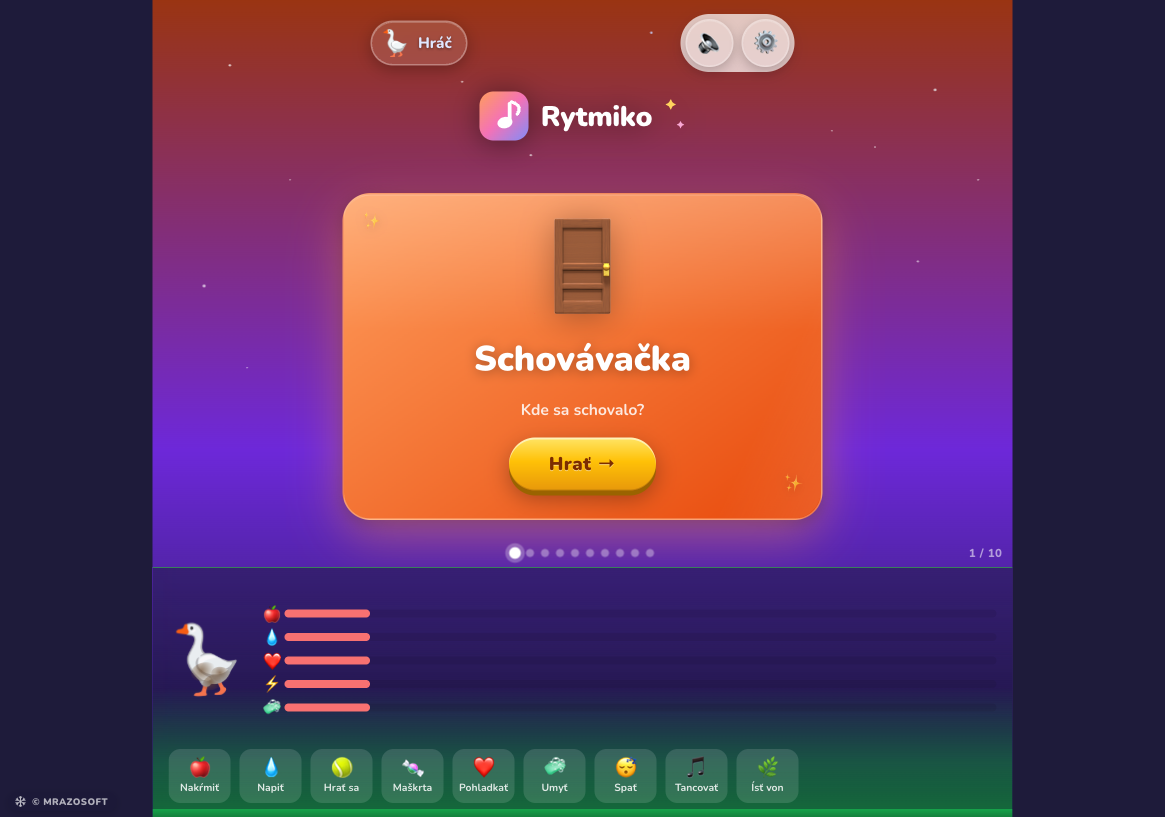
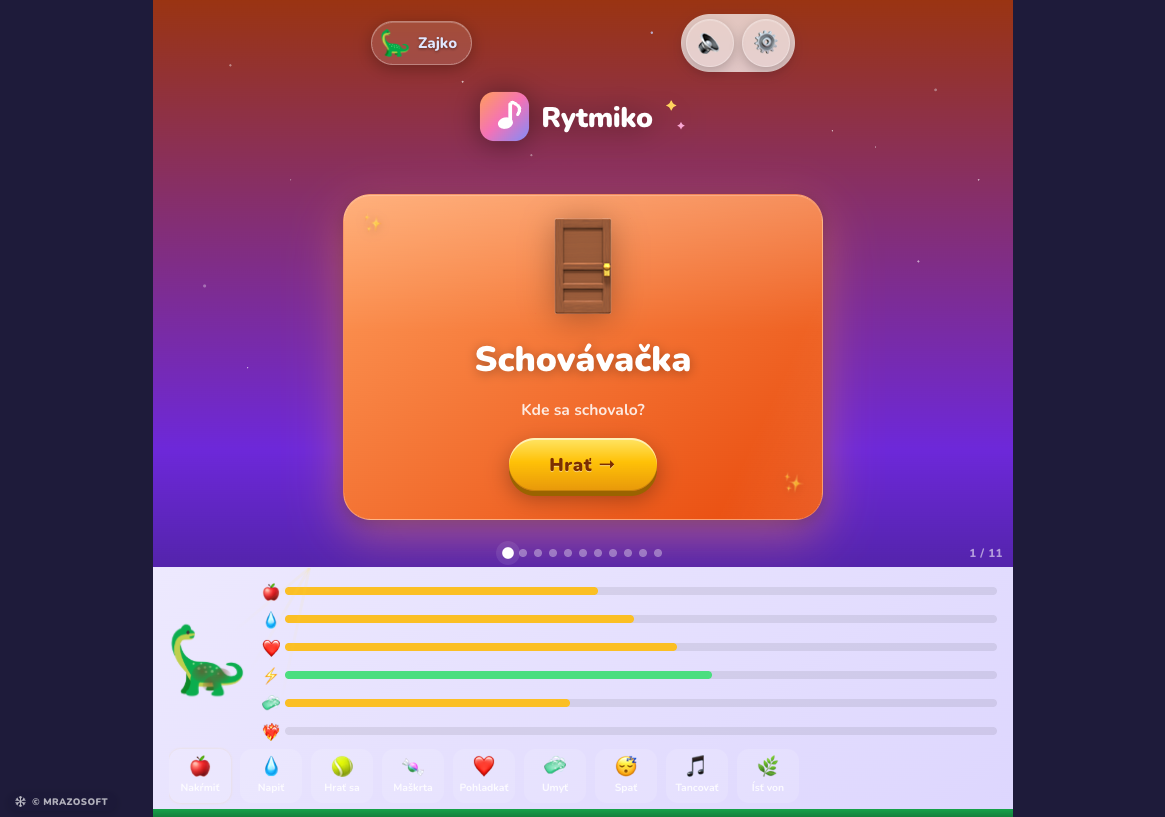
Projekty: pridané Pirohovo (live, pirohovo.eu) + čerstvé náhľady Rytmiko (herné menu, desktop+mobil); app v46, rytmiko ?v=14

diff --git a/projekty.html b/projekty.html
@@ -6,7 +6,7 @@
   <meta name="site-version" content="45" />
   <script>(function(){try{var m=document.querySelector('meta[name="site-version"]');var B=m&&m.content;if(!B)return;var u=new URL(location.href);fetch('/version.json?ts='+Date.now(),{cache:'no-store'}).then(function(r){return r.json();}).then(function(d){if(d&&d.version&&String(d.version)!==String(B)){if(u.searchParams.get('_r')===String(d.version))return;u.searchParams.set('_r',String(d.version));location.replace(u.toString());}}).catch(function(){});}catch(e){}})();</script>
   <title>Projekty z praxe — Rytmiko, Harmony Home, FleetView… | MRAZOSOFT</title>
-  <meta name="description" content="Reálne projekty MRAZOSOFT: Rytmiko PWA, Harmony Home web, FleetView, Heureka Patcher a Tajný Agent. Case-study: problém, riešenie, výsledok." />
+  <meta name="description" content="Reálne projekty MRAZOSOFT: Rytmiko PWA, Harmony Home web, Pirohovo, FleetView, Heureka Patcher a Tajný Agent. Case-study: problém, riešenie, výsledok." />
   <meta name="theme-color" content="#0A0E16" />
   <link rel="icon" type="image/svg+xml" href="assets/favicon.svg" />
   <link rel="manifest" href="manifest.json" />
@@ -115,9 +115,9 @@
             <a class="device-combo tilt" href="https://rytmiko.mrazosoft.sk" target="_blank" rel="noopener" aria-label="Otvoriť Rytmiko naživo">
               <div class="dc-monitor">
                 <div class="browser-bar"><span></span><span></span><span></span><div class="url">rytmiko.mrazosoft.sk</div></div>
-                <img src="assets/projects/rytmiko-desktop.png?v=13" alt="Rytmiko na počítači" loading="lazy" />
+                <img src="assets/projects/rytmiko-desktop.png?v=14" alt="Rytmiko na počítači" loading="lazy" />
               </div>
-              <div class="dc-phone"><img src="assets/projects/rytmiko.png?v=13" alt="Rytmiko na telefóne" loading="lazy" /></div>
+              <div class="dc-phone"><img src="assets/projects/rytmiko.png?v=14" alt="Rytmiko na telefóne" loading="lazy" /></div>
             </a>
           </div>
           <div class="feature-info">
@@ -321,6 +321,33 @@
           </div>
         </div>
 
+        <!-- Pirohovo -->
+        <div class="feature reveal">
+          <div class="feature-visual">
+            <div class="glow-blob"></div>
+            <a class="device-combo tilt" href="https://pirohovo.eu" target="_blank" rel="noopener" aria-label="Otvoriť Pirohovo naživo">
+              <div class="dc-monitor">
+                <div class="browser-bar"><span></span><span></span><span></span><div class="url">pirohovo.eu</div></div>
+                <img src="assets/projects/pirohovo-desktop.png?v=1" alt="Pirohovo na počítači" loading="lazy" />
+              </div>
+              <div class="dc-phone"><img src="assets/projects/pirohovo.png?v=1" alt="Pirohovo na telefóne" loading="lazy" /></div>
+            </a>
+          </div>
+          <div class="feature-info">
+            <div class="feature-top">
+              <h3>Pirohovo</h3>
+              <span class="status status-live"><span class="dot"></span><span data-i18n="status.live">Live</span></span>
+            </div>
+            <div class="case">
+              <p><span class="case-label" data-i18n="case.problem">Problém:</span> <span data-i18n="proj.pirohovo.p">Nová reštaurácia s domácimi pirohmi potrebovala web, ktorý hosťa rýchlo dovedie k objednávke cez donáškové služby a ukáže, kde stánok nájde.</span></p>
+              <p><span class="case-label" data-i18n="case.solution">Riešenie:</span> <span data-i18n="proj.pirohovo.s">Postavil som tmavý, filmový web s plným menu, otváracími hodinami naživo a objednávaním cez Wolt, Bolt aj WhatsApp.</span></p>
+              <p><span class="case-label" data-i18n="case.result">Výsledok:</span> <span data-i18n="proj.pirohovo.r">Hosť vidí ponuku, otváracie hodiny aj rozvoz na jednom mieste a objedná na pár klikov — web je naživo na pirohovo.eu.</span></p>
+            </div>
+            <div class="tags"><span>HTML/CSS/JS</span><span>Dizajn</span><span>SEO</span><span>GitHub Pages</span></div>
+            <a class="project-link" href="https://pirohovo.eu" target="_blank" rel="noopener"><span data-i18n="proj.view">Otvoriť naživo</span> <span class="arr">↗</span></a>
+          </div>
+        </div>
+
       </div>
     </section>
 
@@ -351,7 +378,7 @@
     <svg viewBox="0 0 32 32" aria-hidden="true"><path d="M19.11 17.205c-.372 0-1.088 1.39-1.518 1.39a.63.63 0 0 1-.315-.1c-.802-.402-1.504-.817-2.163-1.447-.545-.516-1.146-1.29-1.46-1.963a.426.426 0 0 1-.073-.215c0-.33.99-.945.99-1.49 0-.143-.73-2.09-.832-2.335-.143-.372-.214-.487-.6-.487-.187 0-.36-.043-.53-.043-.302 0-.53.115-.746.315-.688.645-1.032 1.318-1.06 2.264v.114c-.015.99.472 1.977 1.017 2.78 1.23 1.82 2.506 3.41 4.554 4.34.616.287 2.035.888 2.722.888.817 0 2.15-.515 2.478-1.318.13-.33.244-.73.244-1.088 0-.058 0-.144-.03-.215-.1-.172-2.434-1.39-2.678-1.39zm-2.908 7.593c-1.747 0-3.48-.53-4.942-1.49L7.793 24.41l1.132-3.337a8.955 8.955 0 0 1-1.72-5.272c0-4.955 4.04-8.995 8.997-8.995S25.2 10.845 25.2 15.8c0 4.958-4.04 8.998-8.998 8.998zm0-19.798c-5.96 0-10.8 4.842-10.8 10.8 0 1.964.53 3.898 1.546 5.574L5 27.176l4.96-1.302a10.799 10.799 0 0 0 16.243-9.275c0-5.96-4.842-10.8-10.802-10.8z"/></svg>
   </a>
 
-  <script src="app.js?v=45"></script>
+  <script src="app.js?v=46"></script>
   <script src="cookies.js?v=7"></script>
   <script src="tajne.js?v=13"></script>
 </body>

diff --git a/index.html b/index.html
@@ -266,7 +266,7 @@
         </header>
         <div class="grid grid-3">
           <a class="card proj-card tilt reveal" href="https://rytmiko.mrazosoft.sk" target="_blank" rel="noopener" aria-label="Rytmiko — otvoriť naživo">
-            <span class="proj-thumb"><img src="assets/projects/rytmiko-desktop.png?v=13" alt="Náhľad aplikácie Rytmiko" loading="lazy" width="1280" height="800" /></span>
+            <span class="proj-thumb"><img src="assets/projects/rytmiko-desktop.png?v=14" alt="Náhľad aplikácie Rytmiko" loading="lazy" width="1280" height="800" /></span>
             <span class="proj-body">
               <span class="feature-top"><h3>Rytmiko</h3><span class="status status-dev"><span class="dot"></span><span data-i18n="status.dev">Vo vývoji</span></span></span>
               <span class="proj-desc" data-i18n="proj.rytmiko.home">Deti s Downovým syndrómom potrebovali hravé a dostupné cvičenia — vznikla PWA so 7 aktivitami, slovenskými hlasmi a offline režimom.</span>
@@ -361,7 +361,7 @@
     <svg viewBox="0 0 32 32" aria-hidden="true"><path d="M19.11 17.205c-.372 0-1.088 1.39-1.518 1.39a.63.63 0 0 1-.315-.1c-.802-.402-1.504-.817-2.163-1.447-.545-.516-1.146-1.29-1.46-1.963a.426.426 0 0 1-.073-.215c0-.33.99-.945.99-1.49 0-.143-.73-2.09-.832-2.335-.143-.372-.214-.487-.6-.487-.187 0-.36-.043-.53-.043-.302 0-.53.115-.746.315-.688.645-1.032 1.318-1.06 2.264v.114c-.015.99.472 1.977 1.017 2.78 1.23 1.82 2.506 3.41 4.554 4.34.616.287 2.035.888 2.722.888.817 0 2.15-.515 2.478-1.318.13-.33.244-.73.244-1.088 0-.058 0-.144-.03-.215-.1-.172-2.434-1.39-2.678-1.39zm-2.908 7.593c-1.747 0-3.48-.53-4.942-1.49L7.793 24.41l1.132-3.337a8.955 8.955 0 0 1-1.72-5.272c0-4.955 4.04-8.995 8.997-8.995S25.2 10.845 25.2 15.8c0 4.958-4.04 8.998-8.998 8.998zm0-19.798c-5.96 0-10.8 4.842-10.8 10.8 0 1.964.53 3.898 1.546 5.574L5 27.176l4.96-1.302a10.799 10.799 0 0 0 16.243-9.275c0-5.96-4.842-10.8-10.802-10.8z"/></svg>
   </a>
 
-  <script src="app.js?v=45"></script>
+  <script src="app.js?v=46"></script>
   <script src="cookies.js?v=7"></script>
   <script src="tajne.js?v=13"></script>
 </body>

diff --git a/app.js b/app.js
@@ -68,6 +68,7 @@
       "case.problem": "Problém:", "case.solution": "Riešenie:", "case.result": "Výsledok:",
       "proj.rytmiko.p": "Deti s Downovým syndrómom potrebujú jednoduché, hravé a dostupné cvičenia na vzory, počítanie a zvuky.", "proj.rytmiko.s": "Vznikla PWA edukačná hra so siedmimi aktivitami, slovenskými neurónovými hlasmi, maskotom Zajkom a offline režimom.", "proj.rytmiko.r": "Aplikácia sa dá spustiť v prehliadači aj nainštalovať do telefónu. Projekt je pripravený na ďalšie testovanie a spätnú väzbu.",
       "proj.harmony.p": "Upratovacia služba potrebovala jednoduchý web, ktorý jasne vysvetlí ponuku a rýchlo privedie zákazníka ku kontaktu.", "proj.harmony.s": "Navrhol som web s jasnou štruktúrou, lokálnym SEO, copywritingom a napojením objednávok na WhatsApp.", "proj.harmony.r": "Návštevník vie rýchlo pochopiť služby, lokalitu aj spôsob objednania cez WhatsApp.",
+      "proj.pirohovo.p": "Nová reštaurácia s domácimi pirohmi potrebovala web, ktorý hosťa rýchlo dovedie k objednávke cez donáškové služby a ukáže, kde stánok nájde.", "proj.pirohovo.s": "Postavil som tmavý, filmový web s plným menu, otváracími hodinami naživo a objednávaním cez Wolt, Bolt aj WhatsApp.", "proj.pirohovo.r": "Hosť vidí ponuku, otváracie hodiny aj rozvoz na jednom mieste a objedná na pár klikov — web je naživo na pirohovo.eu.",
       "proj.fleet.p": "Termíny STK, emisnej kontroly, diaľničnej známky a servisu sa ľahko stratia v poznámkach alebo kalendári.", "proj.fleet.s": "PWA a Android aplikácia sleduje vozidlá a zobrazuje stav termínov pomocou jednoduchého farebného semaforu.", "proj.fleet.r": "Používateľ vidí rizikové termíny skôr, než vznikne problém — STK, emisie, diaľničná aj servis pod kontrolou.",
       "proj.heureka.p": "Nespárované produkty z XML feedu bolo potrebné ručne opravovať a pripravovať pre PrestaShop Store Manager.", "proj.heureka.s": "Vytvoril som Python nástroj, ktorý načíta XML feed, spáruje produkty a vyexportuje pripravený CSV súbor.", "proj.heureka.r": "1 842 spracovaných položiek, 1 790 spárovaných, 52 nespárovaných. Práca, ktorá trvala hodiny, je hotová za sekundy.",
       "proj.tajny.p": "Hoaxy, mýty a polopravdy sa šíria rýchlejšie, než sa dajú overiť — a ručná kontrola faktov zaberie čas.", "proj.tajny.s": "macOS aplikácia, do ktorej vložíte tvrdenie. Overí ho cez web a umelú inteligenciu a vygeneruje PDF verdikt so skóre dôveryhodnosti, zdrojmi a zaradením do jednej zo 7 kategórií (pravda, mýtus, hoax, lož…).", "proj.tajny.r": "Z tvrdenia je do minúty prehľadný verdikt s vysvetlením, zdrojmi a PDF výstupom. Projekt slúži ako interný AI nástroj na overovanie tvrdení.",
@@ -161,6 +162,7 @@
       "case.problem": "Problem:", "case.solution": "Solution:", "case.result": "Result:",
       "proj.rytmiko.p": "Children with Down syndrome need simple, playful and accessible exercises for patterns, counting and sounds.", "proj.rytmiko.s": "A PWA educational game with seven activities, Slovak neural voices, the mascot Zajko and an offline mode.", "proj.rytmiko.r": "The app runs in the browser and installs to the phone. The project is ready for further testing and feedback.",
       "proj.harmony.p": "The cleaning service needed a simple website that clearly explains the offer and quickly leads the customer to get in touch.", "proj.harmony.s": "I designed a website with a clear structure, local SEO, copywriting and WhatsApp order integration.", "proj.harmony.r": "Visitors quickly understand the services, the location and how to order via WhatsApp.",
+      "proj.pirohovo.p": "A new restaurant serving homemade pierogi needed a website that quickly leads guests to order via delivery apps and shows where to find the stand.", "proj.pirohovo.s": "I built a dark, cinematic website with a full menu, live opening hours and ordering through Wolt, Bolt and WhatsApp.", "proj.pirohovo.r": "Guests see the menu, opening hours and delivery in one place and order in a few clicks — the site is live at pirohovo.eu.",
       "proj.fleet.p": "Deadlines for inspections, emissions, the vignette and service are easily lost in notes or a calendar.", "proj.fleet.s": "A PWA and Android app tracks the vehicles and shows the deadline status with a simple colour traffic-light.", "proj.fleet.r": "The user sees risky deadlines before a problem arises — inspections, emissions, vignette and service under control.",
       "proj.heureka.p": "Unmatched products from the XML feed had to be fixed by hand and prepared for PrestaShop Store Manager.", "proj.heureka.s": "I built a Python tool that loads the XML feed, matches products and exports a ready CSV file.", "proj.heureka.r": "1,842 items processed, 1,790 matched, 52 unmatched. Work that took hours is done in seconds.",
       "proj.tajny.p": "Hoaxes, myths and half-truths spread faster than they can be checked — and verifying facts by hand takes time.", "proj.tajny.s": "A macOS app where you paste a claim. It verifies it against the web and AI and generates a PDF verdict with a credibility score, sources and one of 7 categories (true, myth, hoax, lie…).", "proj.tajny.r": "A claim becomes a clear verdict — with reasoning, sources and a PDF output — within a minute. The project serves as an internal AI tool for fact-checking claims.",

diff --git a/blog-co-je-pwa-aplikacia.html b/blog-co-je-pwa-aplikacia.html
@@ -167,7 +167,7 @@
     <svg viewBox="0 0 32 32" aria-hidden="true"><path d="M19.11 17.205c-.372 0-1.088 1.39-1.518 1.39a.63.63 0 0 1-.315-.1c-.802-.402-1.504-.817-2.163-1.447-.545-.516-1.146-1.29-1.46-1.963a.426.426 0 0 1-.073-.215c0-.33.99-.945.99-1.49 0-.143-.73-2.09-.832-2.335-.143-.372-.214-.487-.6-.487-.187 0-.36-.043-.53-.043-.302 0-.53.115-.746.315-.688.645-1.032 1.318-1.06 2.264v.114c-.015.99.472 1.977 1.017 2.78 1.23 1.82 2.506 3.41 4.554 4.34.616.287 2.035.888 2.722.888.817 0 2.15-.515 2.478-1.318.13-.33.244-.73.244-1.088 0-.058 0-.144-.03-.215-.1-.172-2.434-1.39-2.678-1.39zm-2.908 7.593c-1.747 0-3.48-.53-4.942-1.49L7.793 24.41l1.132-3.337a8.955 8.955 0 0 1-1.72-5.272c0-4.955 4.04-8.995 8.997-8.995S25.2 10.845 25.2 15.8c0 4.958-4.04 8.998-8.998 8.998zm0-19.798c-5.96 0-10.8 4.842-10.8 10.8 0 1.964.53 3.898 1.546 5.574L5 27.176l4.96-1.302a10.799 10.799 0 0 0 16.243-9.275c0-5.96-4.842-10.8-10.802-10.8z"/></svg>
   </a>
 
-  <script src="app.js?v=45"></script>
+  <script src="app.js?v=46"></script>
   <script src="cookies.js?v=7"></script>
 </body>
 </html>

diff --git a/blog-kolko-stoji-web-stranka.html b/blog-kolko-stoji-web-stranka.html
@@ -173,7 +173,7 @@
     <svg viewBox="0 0 32 32" aria-hidden="true"><path d="M19.11 17.205c-.372 0-1.088 1.39-1.518 1.39a.63.63 0 0 1-.315-.1c-.802-.402-1.504-.817-2.163-1.447-.545-.516-1.146-1.29-1.46-1.963a.426.426 0 0 1-.073-.215c0-.33.99-.945.99-1.49 0-.143-.73-2.09-.832-2.335-.143-.372-.214-.487-.6-.487-.187 0-.36-.043-.53-.043-.302 0-.53.115-.746.315-.688.645-1.032 1.318-1.06 2.264v.114c-.015.99.472 1.977 1.017 2.78 1.23 1.82 2.506 3.41 4.554 4.34.616.287 2.035.888 2.722.888.817 0 2.15-.515 2.478-1.318.13-.33.244-.73.244-1.088 0-.058 0-.144-.03-.215-.1-.172-2.434-1.39-2.678-1.39zm-2.908 7.593c-1.747 0-3.48-.53-4.942-1.49L7.793 24.41l1.132-3.337a8.955 8.955 0 0 1-1.72-5.272c0-4.955 4.04-8.995 8.997-8.995S25.2 10.845 25.2 15.8c0 4.958-4.04 8.998-8.998 8.998zm0-19.798c-5.96 0-10.8 4.842-10.8 10.8 0 1.964.53 3.898 1.546 5.574L5 27.176l4.96-1.302a10.799 10.799 0 0 0 16.243-9.275c0-5.96-4.842-10.8-10.802-10.8z"/></svg>
   </a>
 
-  <script src="app.js?v=45"></script>
+  <script src="app.js?v=46"></script>
   <script src="cookies.js?v=7"></script>
 </body>
 </html>

diff --git a/blog-web-alebo-eshop.html b/blog-web-alebo-eshop.html
@@ -173,7 +173,7 @@
     <svg viewBox="0 0 32 32" aria-hidden="true"><path d="M19.11 17.205c-.372 0-1.088 1.39-1.518 1.39a.63.63 0 0 1-.315-.1c-.802-.402-1.504-.817-2.163-1.447-.545-.516-1.146-1.29-1.46-1.963a.426.426 0 0 1-.073-.215c0-.33.99-.945.99-1.49 0-.143-.73-2.09-.832-2.335-.143-.372-.214-.487-.6-.487-.187 0-.36-.043-.53-.043-.302 0-.53.115-.746.315-.688.645-1.032 1.318-1.06 2.264v.114c-.015.99.472 1.977 1.017 2.78 1.23 1.82 2.506 3.41 4.554 4.34.616.287 2.035.888 2.722.888.817 0 2.15-.515 2.478-1.318.13-.33.244-.73.244-1.088 0-.058 0-.144-.03-.215-.1-.172-2.434-1.39-2.678-1.39zm-2.908 7.593c-1.747 0-3.48-.53-4.942-1.49L7.793 24.41l1.132-3.337a8.955 8.955 0 0 1-1.72-5.272c0-4.955 4.04-8.995 8.997-8.995S25.2 10.845 25.2 15.8c0 4.958-4.04 8.998-8.998 8.998zm0-19.798c-5.96 0-10.8 4.842-10.8 10.8 0 1.964.53 3.898 1.546 5.574L5 27.176l4.96-1.302a10.799 10.799 0 0 0 16.243-9.275c0-5.96-4.842-10.8-10.802-10.8z"/></svg>
   </a>
 
-  <script src="app.js?v=45"></script>
+  <script src="app.js?v=46"></script>
   <script src="cookies.js?v=7"></script>
 </body>
 </html>

diff --git a/blog.html b/blog.html
@@ -155,7 +155,7 @@
     <svg viewBox="0 0 32 32" aria-hidden="true"><path d="M19.11 17.205c-.372 0-1.088 1.39-1.518 1.39a.63.63 0 0 1-.315-.1c-.802-.402-1.504-.817-2.163-1.447-.545-.516-1.146-1.29-1.46-1.963a.426.426 0 0 1-.073-.215c0-.33.99-.945.99-1.49 0-.143-.73-2.09-.832-2.335-.143-.372-.214-.487-.6-.487-.187 0-.36-.043-.53-.043-.302 0-.53.115-.746.315-.688.645-1.032 1.318-1.06 2.264v.114c-.015.99.472 1.977 1.017 2.78 1.23 1.82 2.506 3.41 4.554 4.34.616.287 2.035.888 2.722.888.817 0 2.15-.515 2.478-1.318.13-.33.244-.73.244-1.088 0-.058 0-.144-.03-.215-.1-.172-2.434-1.39-2.678-1.39zm-2.908 7.593c-1.747 0-3.48-.53-4.942-1.49L7.793 24.41l1.132-3.337a8.955 8.955 0 0 1-1.72-5.272c0-4.955 4.04-8.995 8.997-8.995S25.2 10.845 25.2 15.8c0 4.958-4.04 8.998-8.998 8.998zm0-19.798c-5.96 0-10.8 4.842-10.8 10.8 0 1.964.53 3.898 1.546 5.574L5 27.176l4.96-1.302a10.799 10.799 0 0 0 16.243-9.275c0-5.96-4.842-10.8-10.802-10.8z"/></svg>
   </a>
 
-  <script src="app.js?v=45"></script>
+  <script src="app.js?v=46"></script>
   <script src="cookies.js?v=7"></script>
 </body>
 </html>

diff --git a/kontakt.html b/kontakt.html
@@ -171,7 +171,7 @@
     <svg viewBox="0 0 32 32" aria-hidden="true"><path d="M19.11 17.205c-.372 0-1.088 1.39-1.518 1.39a.63.63 0 0 1-.315-.1c-.802-.402-1.504-.817-2.163-1.447-.545-.516-1.146-1.29-1.46-1.963a.426.426 0 0 1-.073-.215c0-.33.99-.945.99-1.49 0-.143-.73-2.09-.832-2.335-.143-.372-.214-.487-.6-.487-.187 0-.36-.043-.53-.043-.302 0-.53.115-.746.315-.688.645-1.032 1.318-1.06 2.264v.114c-.015.99.472 1.977 1.017 2.78 1.23 1.82 2.506 3.41 4.554 4.34.616.287 2.035.888 2.722.888.817 0 2.15-.515 2.478-1.318.13-.33.244-.73.244-1.088 0-.058 0-.144-.03-.215-.1-.172-2.434-1.39-2.678-1.39zm-2.908 7.593c-1.747 0-3.48-.53-4.942-1.49L7.793 24.41l1.132-3.337a8.955 8.955 0 0 1-1.72-5.272c0-4.955 4.04-8.995 8.997-8.995S25.2 10.845 25.2 15.8c0 4.958-4.04 8.998-8.998 8.998zm0-19.798c-5.96 0-10.8 4.842-10.8 10.8 0 1.964.53 3.898 1.546 5.574L5 27.176l4.96-1.302a10.799 10.799 0 0 0 16.243-9.275c0-5.96-4.842-10.8-10.802-10.8z"/></svg>
   </a>
 
-  <script src="app.js?v=45"></script>
+  <script src="app.js?v=46"></script>
   <script src="cookies.js?v=7"></script>
   <script src="tajne.js?v=13"></script>
 </body>

diff --git a/o-mne.html b/o-mne.html
@@ -197,7 +197,7 @@
     <svg viewBox="0 0 32 32" aria-hidden="true"><path d="M19.11 17.205c-.372 0-1.088 1.39-1.518 1.39a.63.63 0 0 1-.315-.1c-.802-.402-1.504-.817-2.163-1.447-.545-.516-1.146-1.29-1.46-1.963a.426.426 0 0 1-.073-.215c0-.33.99-.945.99-1.49 0-.143-.73-2.09-.832-2.335-.143-.372-.214-.487-.6-.487-.187 0-.36-.043-.53-.043-.302 0-.53.115-.746.315-.688.645-1.032 1.318-1.06 2.264v.114c-.015.99.472 1.977 1.017 2.78 1.23 1.82 2.506 3.41 4.554 4.34.616.287 2.035.888 2.722.888.817 0 2.15-.515 2.478-1.318.13-.33.244-.73.244-1.088 0-.058 0-.144-.03-.215-.1-.172-2.434-1.39-2.678-1.39zm-2.908 7.593c-1.747 0-3.48-.53-4.942-1.49L7.793 24.41l1.132-3.337a8.955 8.955 0 0 1-1.72-5.272c0-4.955 4.04-8.995 8.997-8.995S25.2 10.845 25.2 15.8c0 4.958-4.04 8.998-8.998 8.998zm0-19.798c-5.96 0-10.8 4.842-10.8 10.8 0 1.964.53 3.898 1.546 5.574L5 27.176l4.96-1.302a10.799 10.799 0 0 0 16.243-9.275c0-5.96-4.842-10.8-10.802-10.8z"/></svg>
   </a>
 
-  <script src="app.js?v=45"></script>
+  <script src="app.js?v=46"></script>
   <script src="cookies.js?v=7"></script>
   <script src="tajne.js?v=13"></script>
 </body>

diff --git a/sluzby.html b/sluzby.html
@@ -239,7 +239,7 @@
     <svg viewBox="0 0 32 32" aria-hidden="true"><path d="M19.11 17.205c-.372 0-1.088 1.39-1.518 1.39a.63.63 0 0 1-.315-.1c-.802-.402-1.504-.817-2.163-1.447-.545-.516-1.146-1.29-1.46-1.963a.426.426 0 0 1-.073-.215c0-.33.99-.945.99-1.49 0-.143-.73-2.09-.832-2.335-.143-.372-.214-.487-.6-.487-.187 0-.36-.043-.53-.043-.302 0-.53.115-.746.315-.688.645-1.032 1.318-1.06 2.264v.114c-.015.99.472 1.977 1.017 2.78 1.23 1.82 2.506 3.41 4.554 4.34.616.287 2.035.888 2.722.888.817 0 2.15-.515 2.478-1.318.13-.33.244-.73.244-1.088 0-.058 0-.144-.03-.215-.1-.172-2.434-1.39-2.678-1.39zm-2.908 7.593c-1.747 0-3.48-.53-4.942-1.49L7.793 24.41l1.132-3.337a8.955 8.955 0 0 1-1.72-5.272c0-4.955 4.04-8.995 8.997-8.995S25.2 10.845 25.2 15.8c0 4.958-4.04 8.998-8.998 8.998zm0-19.798c-5.96 0-10.8 4.842-10.8 10.8 0 1.964.53 3.898 1.546 5.574L5 27.176l4.96-1.302a10.799 10.799 0 0 0 16.243-9.275c0-5.96-4.842-10.8-10.802-10.8z"/></svg>
   </a>
 
-  <script src="app.js?v=45"></script>
+  <script src="app.js?v=46"></script>
   <script src="cookies.js?v=7"></script>
   <script src="tajne.js?v=13"></script>
 </body>

diff --git a/zasady.html b/zasady.html
@@ -171,7 +171,7 @@
     <svg viewBox="0 0 32 32" aria-hidden="true"><path d="M19.11 17.205c-.372 0-1.088 1.39-1.518 1.39a.63.63 0 0 1-.315-.1c-.802-.402-1.504-.817-2.163-1.447-.545-.516-1.146-1.29-1.46-1.963a.426.426 0 0 1-.073-.215c0-.33.99-.945.99-1.49 0-.143-.73-2.09-.832-2.335-.143-.372-.214-.487-.6-.487-.187 0-.36-.043-.53-.043-.302 0-.53.115-.746.315-.688.645-1.032 1.318-1.06 2.264v.114c-.015.99.472 1.977 1.017 2.78 1.23 1.82 2.506 3.41 4.554 4.34.616.287 2.035.888 2.722.888.817 0 2.15-.515 2.478-1.318.13-.33.244-.73.244-1.088 0-.058 0-.144-.03-.215-.1-.172-2.434-1.39-2.678-1.39zm-2.908 7.593c-1.747 0-3.48-.53-4.942-1.49L7.793 24.41l1.132-3.337a8.955 8.955 0 0 1-1.72-5.272c0-4.955 4.04-8.995 8.997-8.995S25.2 10.845 25.2 15.8c0 4.958-4.04 8.998-8.998 8.998zm0-19.798c-5.96 0-10.8 4.842-10.8 10.8 0 1.964.53 3.898 1.546 5.574L5 27.176l4.96-1.302a10.799 10.799 0 0 0 16.243-9.275c0-5.96-4.842-10.8-10.802-10.8z"/></svg>
   </a>
 
-  <script src="app.js?v=45"></script>
+  <script src="app.js?v=46"></script>
   <script src="cookies.js?v=7"></script>
   <script src="tajne.js?v=13"></script>
 </body>